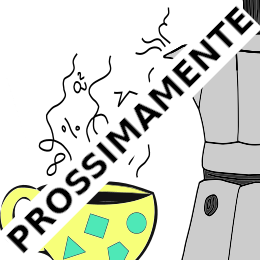
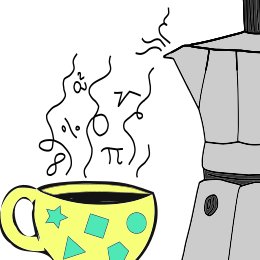
Nuova pagina lezioni private

Changed region(s): [[0.0, 0.0, 1.0, 0.9846]]

diff --git a/content/activity/lezioni.md b/content/activity/lezioni.md
@@ -1,0 +1,46 @@
++++
+title = "Lezioni private"
+description = "Lezioni private di matematica"
+
+template = "page.html"
+
+[extra]
+#thumb = "/images/activities/lezioni_1.jpg"
+#image = "/images/activities/lezioni_1.jpg"
+#alt = "Tavoli e sedie nella sede di PiGreco"
++++
+
+## Lezioni private
+
+<img src="/images/activities/lezioni_1.jpg" style="float: right; margin: 20px; width: 250px;">
+
+Lo scopo delle nostre lezioni private è aiutare gli studenti a colmare eventuali lacune pregresse, ma soprattutto sviluppare o potenziare un metodo di studio specifico per la matematica, per acquisire sempre più autonomia nella propria carriera scolastica.
+Le lezioni sono tenute dai tutor della nostra associazione, formati sia dal punto di vista disciplinare che didattico.
+
+
+### Per chi?
+
+Studenti della scuola secondaria di primo e secondo grado di qualsiasi indirizzo.  
+Studenti universitari che devono affrontare test di ingresso o esami di matematica.
+
+
+### Dove?
+In presenza: presso la nostra sede operativa in [via IV Novembre 37 a Vimodrone](https://goo.gl/maps/haRkaJpfMVYaetLx8).  
+A distanza: online tramite videochiamata.
+
+
+<img src="/images/activities/lezioni_2.jpg" style="float: left; margin: 20px; width: 250px;">
+
+### Quando?
+Gli incontri si svolgono il pomeriggio in settimana e il sabato mattina. Il calendario viene stabilito tra il tutor e lo studente coinvolto.
+
+### Costi e contatti
+Costo all’ora per studenti della scuola secondaria di I grado: 20 euro.  
+Costo all’ora per studenti della scuola secondaria di II grado: 25 euro.  
+Costo all’ora per studenti universitari: dai 35 euro.  
+
+I costi indicati valgono sia per lezioni in presenza che per lezioni online.
+Il pagamento avviene mensilmente, dopo un conteggio delle ore effettivamente svolte.
+Annualmente viene aggiunto un costo di 10 euro per l’iscrizione all’associazione.
+
+Per avere maggiori informazioni o per prendere appuntamento, scrivete una mail a <pigreco@luogoideale.org> indicando un recapito telefonico. 
